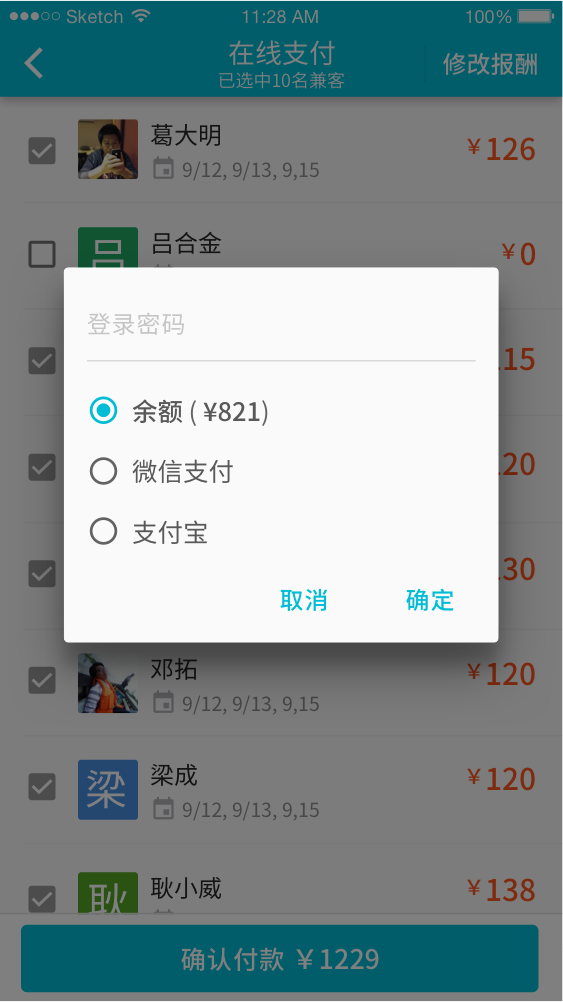
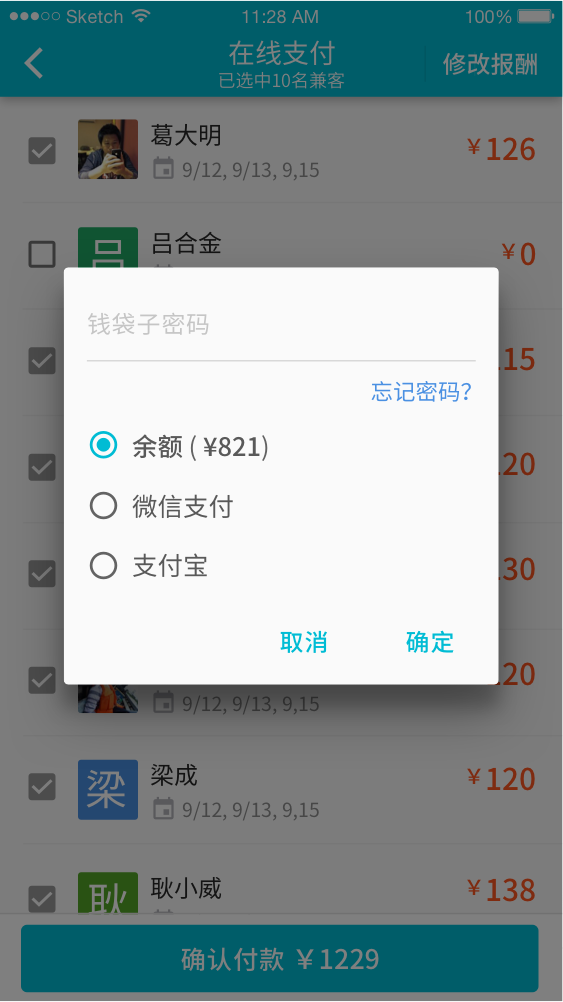
update: money-bag password & login password

diff --git a/my-center.html b/my-center.html
@@ -560,8 +560,21 @@ sup {
 
 <ul>
 <li>手机号</li>
-<li>密码</li>
-<li><del>绑定微信</del> 当前版本暂且隐藏</li>
+<li>更改密码
+
+<ul>
+<li>登录密码</li>
+<li>钱袋子密码</li>
+</ul>
+</li>
+<li>找回密码
+
+<ul>
+<li>登录密码</li>
+<li>钱袋子密码</li>
+</ul>
+</li>
+<li><del>绑定微信</del>（当前版本暂且隐藏）</li>
 </ul>
 </li>
 <li>使用引导：（内容暂缺）</li>

diff --git a/money-bag.md b/money-bag.md
@@ -2,11 +2,11 @@
 ## 概览
 兼客与雇主的「钱袋子」页面布局一致，都支持「取出」「充值」。仅流水记录类型存在差别。「钱袋子」为用户钱包，无需绑定任何支付方式也能用钱包收钱（这一点可类比微信钱包）。在涉及支付，余额不足，或需要取出余额时才需要作绑定。
 
-使用第三方帐户登录的用户，打开钱袋子时弹框要求设置密码（该密码即登录密码），设置后才能继续使用钱袋子。
+初次使用钱袋子，弹框要求设置钱袋子密码，设置后才能继续使用钱袋子。
 
 ```
-设置密码
-为保证资金安全，请设置登录密码。重要操作需要输密码完成。
+钱袋子密码
+为保证资金安全，请设置钱袋子密码。重要操作需要输密码完成。
 ____________________
 取消 | 确定
 ```
@@ -56,7 +56,9 @@ ____________________
 每项流水记录应有详细时间戳。
 
 ### 取出
-通过「取出」将钱袋子中的余额转入微信钱包。点击后弹框，要求输入金额及登录密码。
+通过「取出」将钱袋子中的余额转入第三方支付帐户。点击后弹框，要求输入金额及登录密码。
+
+![image](img/取款弹窗.png)
 
 ### 充值
 通过「充值」将微信钱包中的金额转入钱袋子。点击后弹框，要求输入金额。点击弹框中的「确定」后将账单提交至微信。

diff --git a/pay.md b/pay.md
@@ -56,8 +56,8 @@
 #### 报酬调节控件
 左右分别减少或增加报酬，每点击一次调整幅度为 1 元。同时加减号之间为文本框，可在直接输入数字。点击「确定」提交修改，恢复复选框状态。
 
-#### 确认支付
-页面底部有「确认支付」按钮浮动置底，按钮后缀为所支付总金额。雇主可多次打开岗位且对同一兼客进行多次支付。
+#### 确认付款
+页面底部有「确认付款」按钮浮动置底，按钮后缀为所支付总金额。雇主可多次打开岗位且对同一兼客进行多次支付。
 
 点击「确认付款」弹框要求输入登录密码。默认选中「余额」；当余额小于此次支付金额时该选项被置灰不可点选，默认选中微信支付。支持用户改变支付方式。
 

diff --git a/my-center.md b/my-center.md
@@ -133,8 +133,13 @@
 ### 设置
 - 账号信息
     - 手机号
-    - 密码
-    - ~~绑定微信~~ 当前版本暂且隐藏
+    - 更改密码
+    	- 登录密码
+    	- 钱袋子密码
+    - 找回密码
+    	- 登录密码
+    	- 钱袋子密码
+    - ~~绑定微信~~（当前版本暂且隐藏）
 - 使用引导：（内容暂缺）
 - 赏个好评：沿用旧版本功能设定
 - 检查更新：沿用旧版本功能设定
